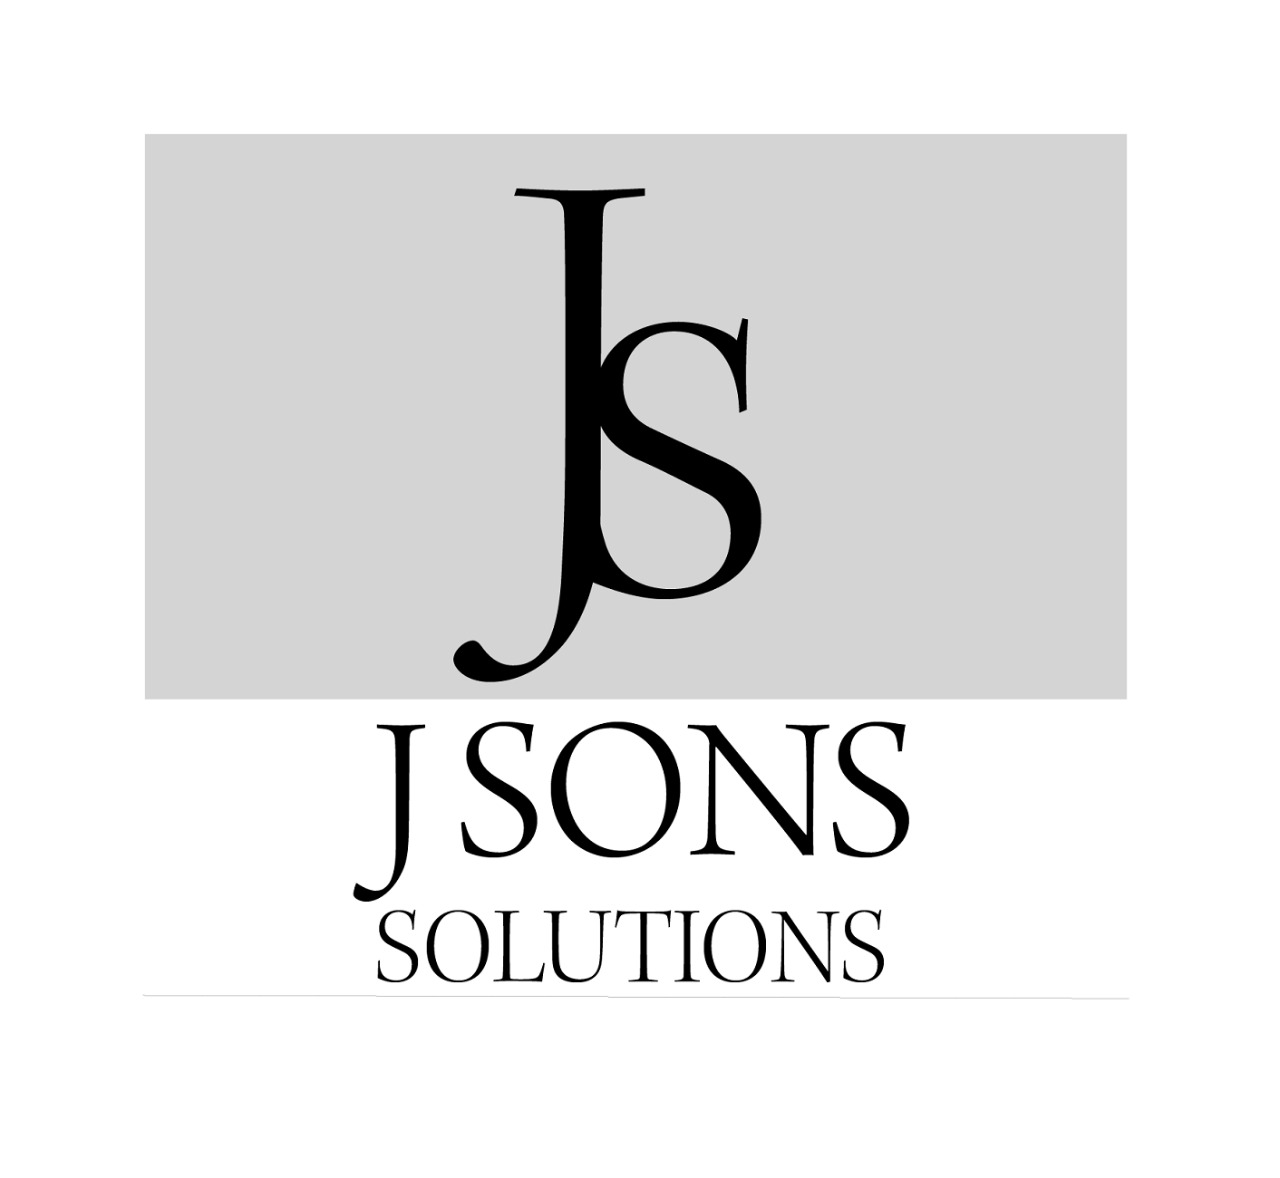
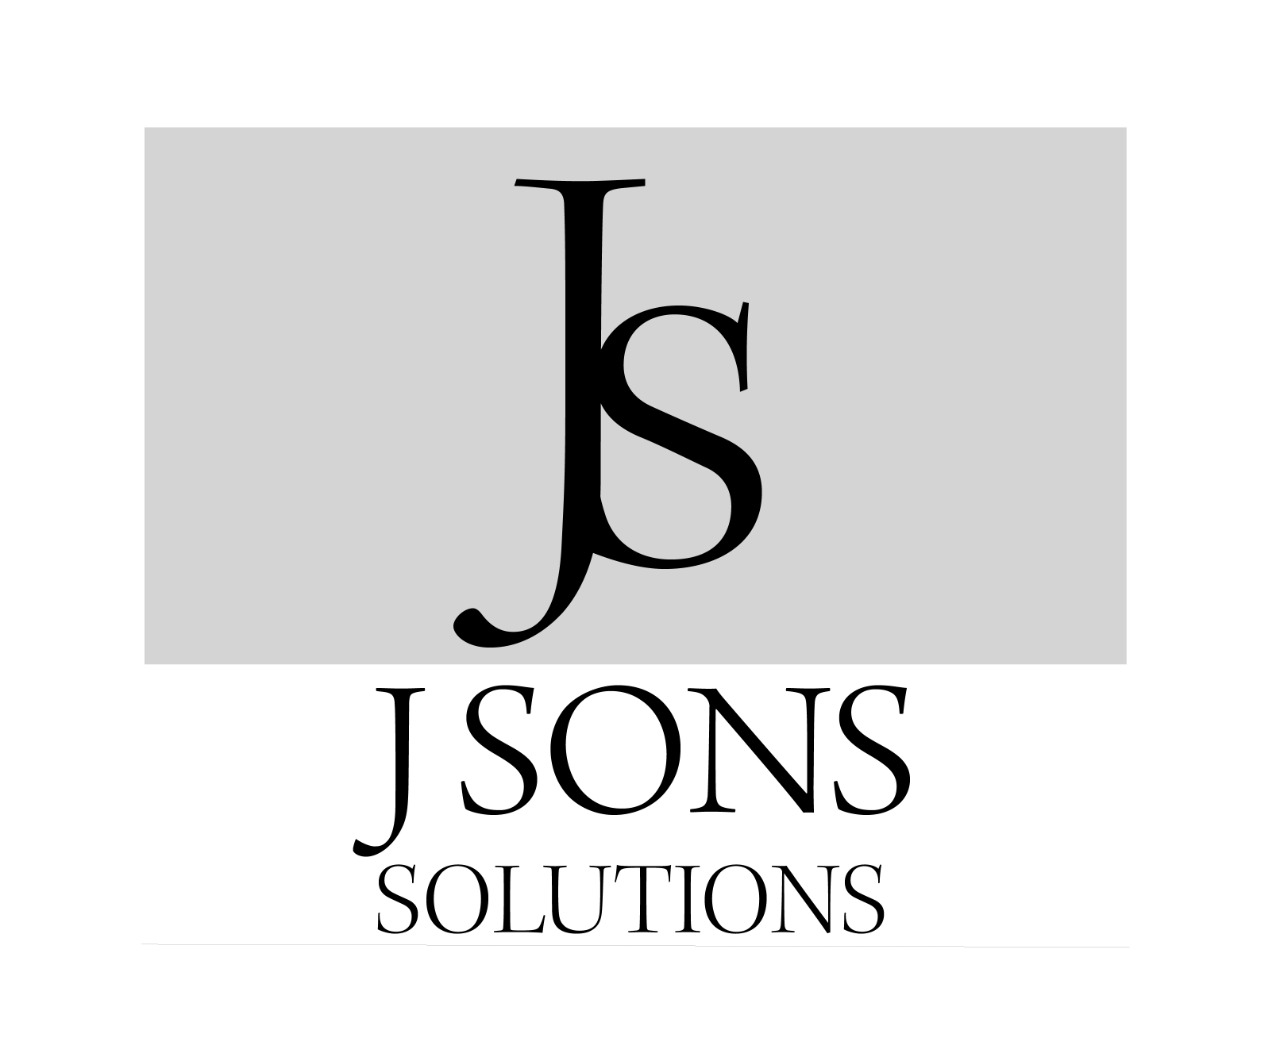
edit home height

Changed region(s): [[0.0938, 0.2498, 0.9062, 0.9054], [0.125, 0.0937, 0.875, 0.1249], [0.4062, 0.1561, 0.5, 0.1873]]

diff --git a/style.css b/style.css
@@ -30,7 +30,7 @@ h1{font-size:36px}h2{font-size:30px}h3{font-size:24px}h4{font-size:20px}h5{font-
 h1,h2,h3,h4,h5,h6{font-family:"Segoe UI",Arial,sans-serif;font-weight:400;margin:10px 0}.w3-wide{letter-spacing:4px}
 hr{border:0;border-top:1px solid #eee;margin:20px 0}
 .w3-image{max-width:100%;height:auto}img{vertical-align:middle}a{color:inherit}
-.w3-image1{max-width:100%;}
+.w3-image1{max-width:100%;height:auto;}
 .w3-table,.w3-table-all{border-collapse:collapse;border-spacing:0;width:100%;display:table}.w3-table-all{border:1px solid #ccc}
 .w3-bordered tr,.w3-table-all tr{border-bottom:1px solid #ddd}.w3-striped tbody tr:nth-child(even){background-color:#f1f1f1}
 .w3-table-all tr:nth-child(odd){background-color:#fff}.w3-table-all tr:nth-child(even){background-color:#f1f1f1}

diff --git a/index.html b/index.html
@@ -38,7 +38,7 @@
 
   <!-- Header -->
   <header class="w3-display-container w3-content w3-wide" style="max-width:1500px; padding-top: 50px;" id="home">
-    <img class="w3-image1" src="w3images/homeImage.jpeg" alt="Architecture" width="1500" height="750">
+    <img class="w3-image1" src="w3images/homeimage1.jpeg" alt="Architecture" width="1500">
     <!-- <div class="w3-display-middle w3-margin-top w3-center">
       <h1 class="w3-xxlarge w3-text-white"><span class="w3-padding w3-black w3-opacity-min"><b>JSons Solutions</b></span> </h1>
     </div>
